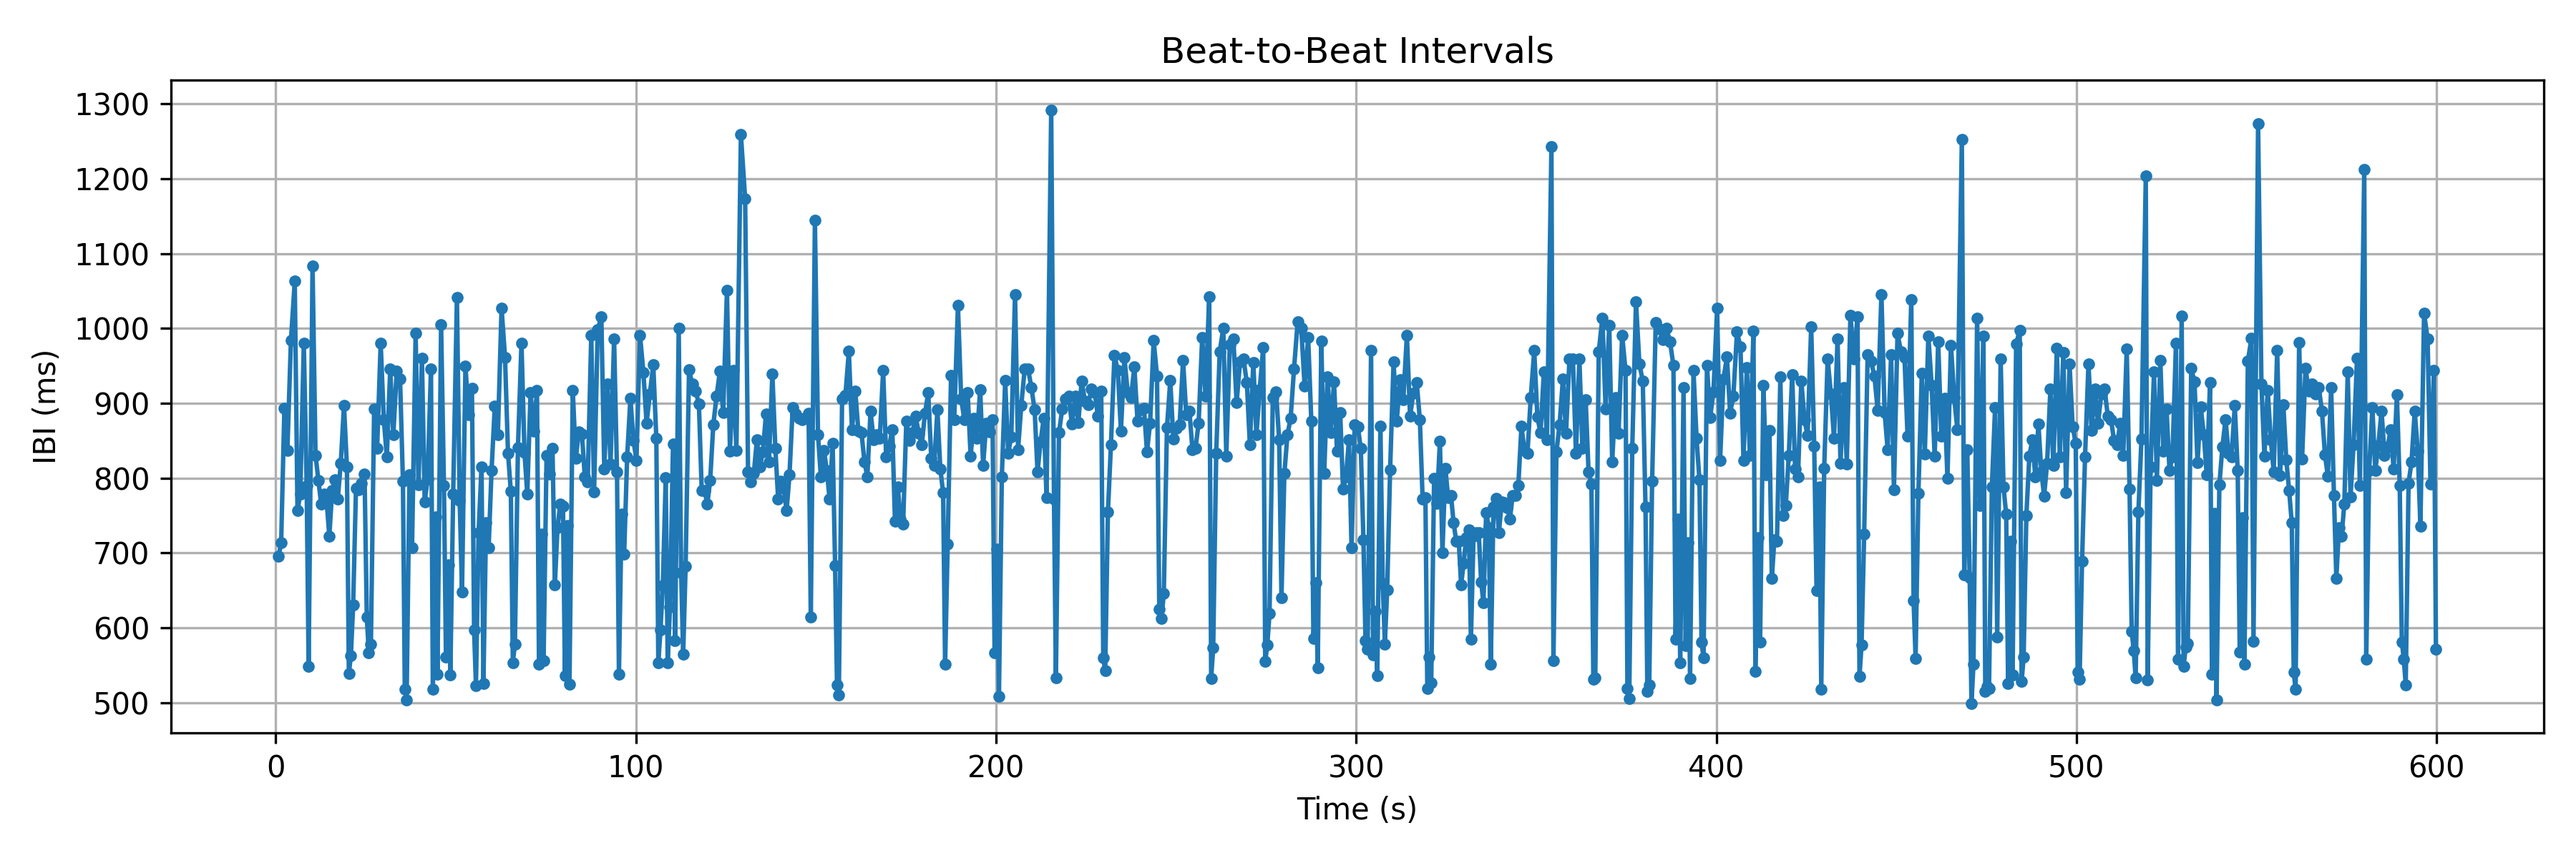
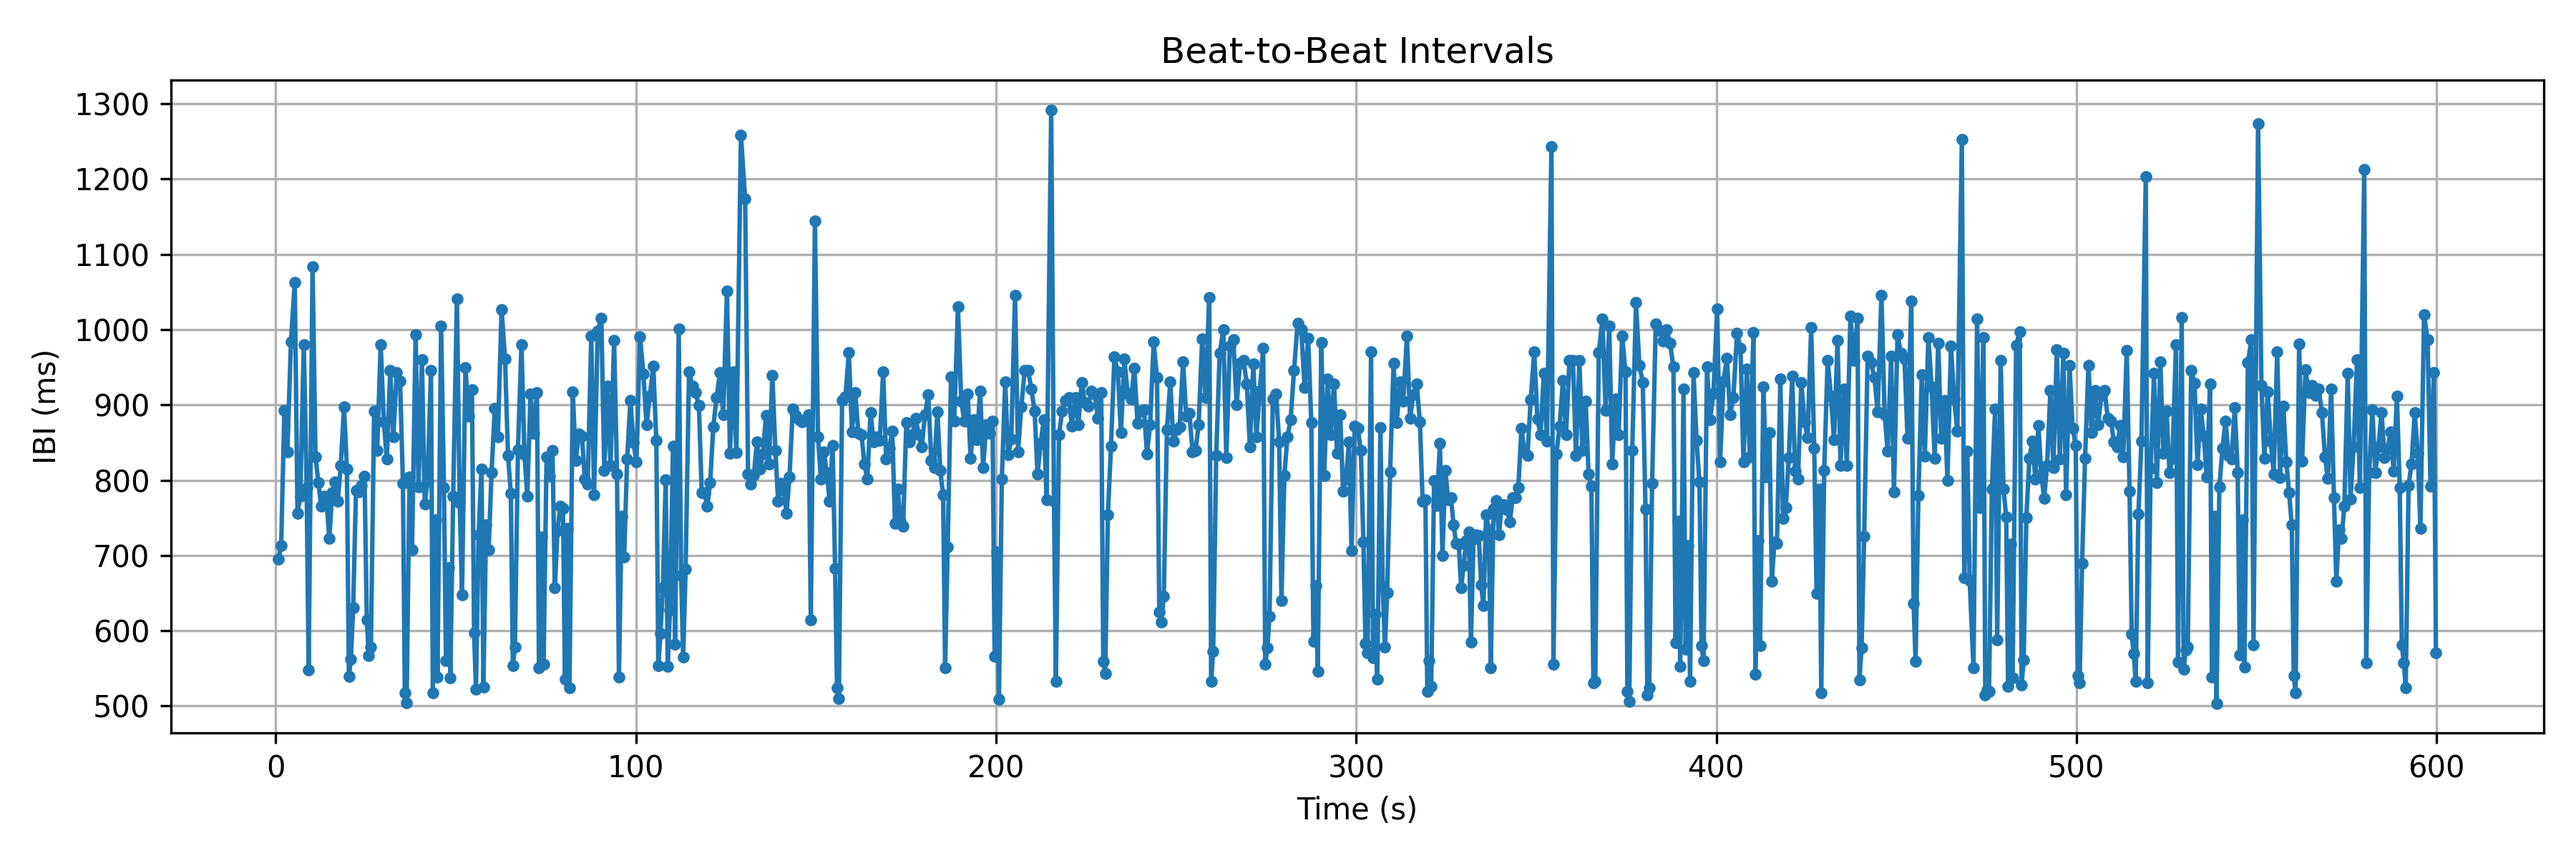
part3

diff --git a/lab3/analyze_ppg_part3_recovery.py b/lab3/analyze_ppg_part3_recovery.py
@@ -1,0 +1,227 @@
+import numpy as np
+import matplotlib.pyplot as plt
+import sys
+import os
+from scipy.signal import find_peaks
+
+def load_ppg_csv(filename):
+    data = np.loadtxt(filename, delimiter=",", skiprows=1)
+    time_data = data[:, 0]
+    ppg_data = data[:, 1]
+    return time_data, ppg_data
+
+def estimate_fs(time_data):
+    dt = np.diff(time_data)
+    return 1.0 / np.mean(dt)
+
+def fft_bandpass(signal, fs, lowcut, highcut):
+    N = len(signal)
+    X = np.fft.fft(signal)
+    freqs = np.fft.fftfreq(N, d=1 / fs)
+
+    keep = (np.abs(freqs) >= lowcut) & (np.abs(freqs) <= highcut)
+    X_filt = np.zeros_like(X, dtype=complex)
+    X_filt[keep] = X[keep]
+
+    return np.fft.ifft(X_filt).real
+
+def moving_average(x, M):
+    if M <= 1:
+        return x.copy()
+    kernel = np.ones(M) / M
+    return np.convolve(x, kernel, mode="same")
+
+def estimate_hr_from_window(window_time, window_signal, fs, lowcut=1.0, highcut=4.0):
+    if len(window_signal) < 10:
+        return np.nan
+
+    x = window_signal - np.mean(window_signal)
+    x_clean = fft_bandpass(x, fs, lowcut, highcut)
+
+    min_peak_distance_seconds = 0.4
+    min_peak_distance_samples = int(min_peak_distance_seconds * fs)
+
+    prominence_value = 0.15 * np.std(x_clean)
+    if prominence_value <= 0:
+        prominence_value = 1e-6
+
+    peaks, _ = find_peaks(
+        x_clean,
+        distance=min_peak_distance_samples,
+        prominence=prominence_value
+    )
+
+    if len(peaks) < 2:
+        return np.nan
+
+    peak_times = window_time[peaks]
+    ibi = np.diff(peak_times)
+
+    valid_mask = (ibi >= 0.4) & (ibi <= 1.5)
+    valid_ibi = ibi[valid_mask]
+
+    if len(valid_ibi) < 2:
+        return np.nan
+
+    mean_ibi = np.mean(valid_ibi)
+    hr_bpm = 60.0 / mean_ibi
+    return hr_bpm
+
+def fit_recovery_tau(time_sec, hr_bpm):
+    valid = np.isfinite(hr_bpm)
+    time_sec = time_sec[valid]
+    hr_bpm = hr_bpm[valid]
+
+    if len(hr_bpm) < 10:
+        return np.nan, np.nan, np.nan
+
+    hr_final = np.mean(hr_bpm[-max(3, len(hr_bpm)//10):])
+    hr_peak = np.max(hr_bpm)
+
+    delta = hr_bpm - hr_final
+    fit_mask = delta > 0
+
+    time_fit = time_sec[fit_mask]
+    delta_fit = delta[fit_mask]
+
+    if len(delta_fit) < 5:
+        return np.nan, hr_peak, hr_final
+
+    ln_delta = np.log(delta_fit)
+
+    A = np.vstack([time_fit, np.ones_like(time_fit)]).T
+    slope, intercept = np.linalg.lstsq(A, ln_delta, rcond=None)[0]
+
+    if slope >= 0:
+        return np.nan, hr_peak, hr_final
+
+    tau = -1.0 / slope
+    return tau, hr_peak, hr_final
+
+def hr_at_offset(time_sec, hr_bpm, peak_index, offset_sec):
+    target_time = time_sec[peak_index] + offset_sec
+    idx = np.argmin(np.abs(time_sec - target_time))
+    return hr_bpm[idx], time_sec[idx]
+
+def main():
+    if len(sys.argv) < 2:
+        print("Usage: python analyze_ppg_part3_recovery.py <file.csv>")
+        sys.exit(1)
+
+    filename = sys.argv[1]
+    time_data, ppg_data = load_ppg_csv(filename)
+    fs = estimate_fs(time_data)
+
+    # Analysis settings
+    lowcut = 1.0
+    highcut = 4.0
+    window_length_sec = 10.0
+    step_sec = 1.0
+    smoothing_length_samples = 5
+
+    window_length_samples = int(window_length_sec * fs)
+    step_samples = int(step_sec * fs)
+
+    hr_times = []
+    hr_values = []
+
+    for start in range(0, len(ppg_data) - window_length_samples + 1, step_samples):
+        end = start + window_length_samples
+
+        window_time = time_data[start:end]
+        window_signal = ppg_data[start:end]
+
+        hr_bpm = estimate_hr_from_window(window_time, window_signal, fs, lowcut, highcut)
+
+        hr_times.append(np.mean(window_time))
+        hr_values.append(hr_bpm)
+
+    hr_times = np.array(hr_times)
+    hr_values = np.array(hr_values)
+
+    hr_smooth = moving_average(hr_values, smoothing_length_samples)
+
+    valid = np.isfinite(hr_smooth)
+    hr_times_valid = hr_times[valid]
+    hr_smooth_valid = hr_smooth[valid]
+
+    if len(hr_smooth_valid) < 10:
+        print("Not enough valid HR estimates.")
+        sys.exit(1)
+
+    peak_index = np.argmax(hr_smooth_valid)
+    hr_peak = hr_smooth_valid[peak_index]
+    peak_time = hr_times_valid[peak_index]
+
+    tau, hr_peak_fit, hr_final = fit_recovery_tau(hr_times_valid - peak_time, hr_smooth_valid)
+
+    hr_30, t_30 = hr_at_offset(hr_times_valid, hr_smooth_valid, peak_index, 30.0)
+    hr_60, t_60 = hr_at_offset(hr_times_valid, hr_smooth_valid, peak_index, 60.0)
+    hr_300, t_300 = hr_at_offset(hr_times_valid, hr_smooth_valid, peak_index, 300.0)
+
+    drop_30 = hr_peak - hr_30
+    drop_60 = hr_peak - hr_60
+    drop_300 = hr_peak - hr_300
+
+    print(f"Estimated sample rate: {fs:.3f} Hz")
+    print(f"Bandpass range: {lowcut:.2f} Hz to {highcut:.2f} Hz")
+    print(f"Window length: {window_length_sec:.1f} s")
+    print(f"Window step: {step_sec:.1f} s")
+    print(f"Peak HR: {hr_peak:.2f} BPM at t = {peak_time:.2f} s")
+    print(f"Smoothed final HR: {hr_final:.2f} BPM")
+
+    if np.isfinite(tau):
+        print(f"Recovery time constant tau: {tau:.2f} s")
+    else:
+        print("Recovery time constant tau: could not be estimated reliably")
+
+    print(f"HR after ~30 s: {hr_30:.2f} BPM at t = {t_30:.2f} s")
+    print(f"Drop after 30 s: {drop_30:.2f} BPM")
+
+    print(f"HR after ~60 s: {hr_60:.2f} BPM at t = {t_60:.2f} s")
+    print(f"Drop after 1 min: {drop_60:.2f} BPM")
+
+    print(f"HR after ~300 s: {hr_300:.2f} BPM at t = {t_300:.2f} s")
+    print(f"Drop after 5 min: {drop_300:.2f} BPM")
+
+    output_prefix = os.path.splitext(filename)[0]
+
+    plt.figure(figsize=(12, 5))
+    plt.plot(hr_times, hr_values, ".", alpha=0.6, label="Windowed HR estimates")
+    plt.plot(hr_times, hr_smooth, linewidth=2, label="Smoothed HR")
+
+    plt.axhline(hr_peak, linestyle="--", label=f"Peak HR = {hr_peak:.2f} BPM")
+    plt.axhline(hr_final, linestyle=":", label=f"Final HR = {hr_final:.2f} BPM")
+    plt.axvline(peak_time, linestyle="--", alpha=0.7, label="Peak time")
+
+    plt.plot(t_30, hr_30, "o", label=f"30 s drop = {drop_30:.2f} BPM")
+    plt.plot(t_60, hr_60, "o", label=f"1 min drop = {drop_60:.2f} BPM")
+    plt.plot(t_300, hr_300, "o", label=f"5 min drop = {drop_300:.2f} BPM")
+
+    plt.title("Heart Rate Recovery After Exercise")
+    plt.xlabel("Time (s)")
+    plt.ylabel("Heart Rate (BPM)")
+    plt.grid(True)
+    plt.legend()
+    plt.tight_layout()
+    plt.savefig(f"{output_prefix}_part3_hr_recovery.png", dpi=300)
+    plt.close()
+
+    if np.isfinite(tau):
+        valid_tau = np.isfinite(hr_smooth_valid) & (hr_smooth_valid > hr_final)
+        time_tau = hr_times_valid[valid_tau] - peak_time
+        hr_tau = hr_smooth_valid[valid_tau]
+
+        plt.figure(figsize=(12, 5))
+        plt.plot(time_tau, np.log(hr_tau - hr_final), ".", label="log(HR - HR_final)")
+        plt.title("Log-Linear Recovery Fit")
+        plt.xlabel("Time Since Peak (s)")
+        plt.ylabel("log(HR - HR_final)")
+        plt.grid(True)
+        plt.legend()
+        plt.tight_layout()
+        plt.savefig(f"{output_prefix}_part3_tau_fit.png", dpi=300)
+        plt.close()
+
+if __name__ == "__main__":
+    main()

diff --git a/lab3/analyze_ppg_part2.py b/lab3/analyze_ppg_part2.py
@@ -86,7 +86,7 @@ def main():
     ibi = np.diff(peak_times)
 
     # Keep only physiologically reasonable intervals
-    valid_mask = (ibi >= 0.4) & (ibi <= 1.5)
+    valid_mask = (ibi >= 0.5) & (ibi <= 2)
     valid_ibi = ibi[valid_mask]
 
     if len(valid_ibi) < 2:
